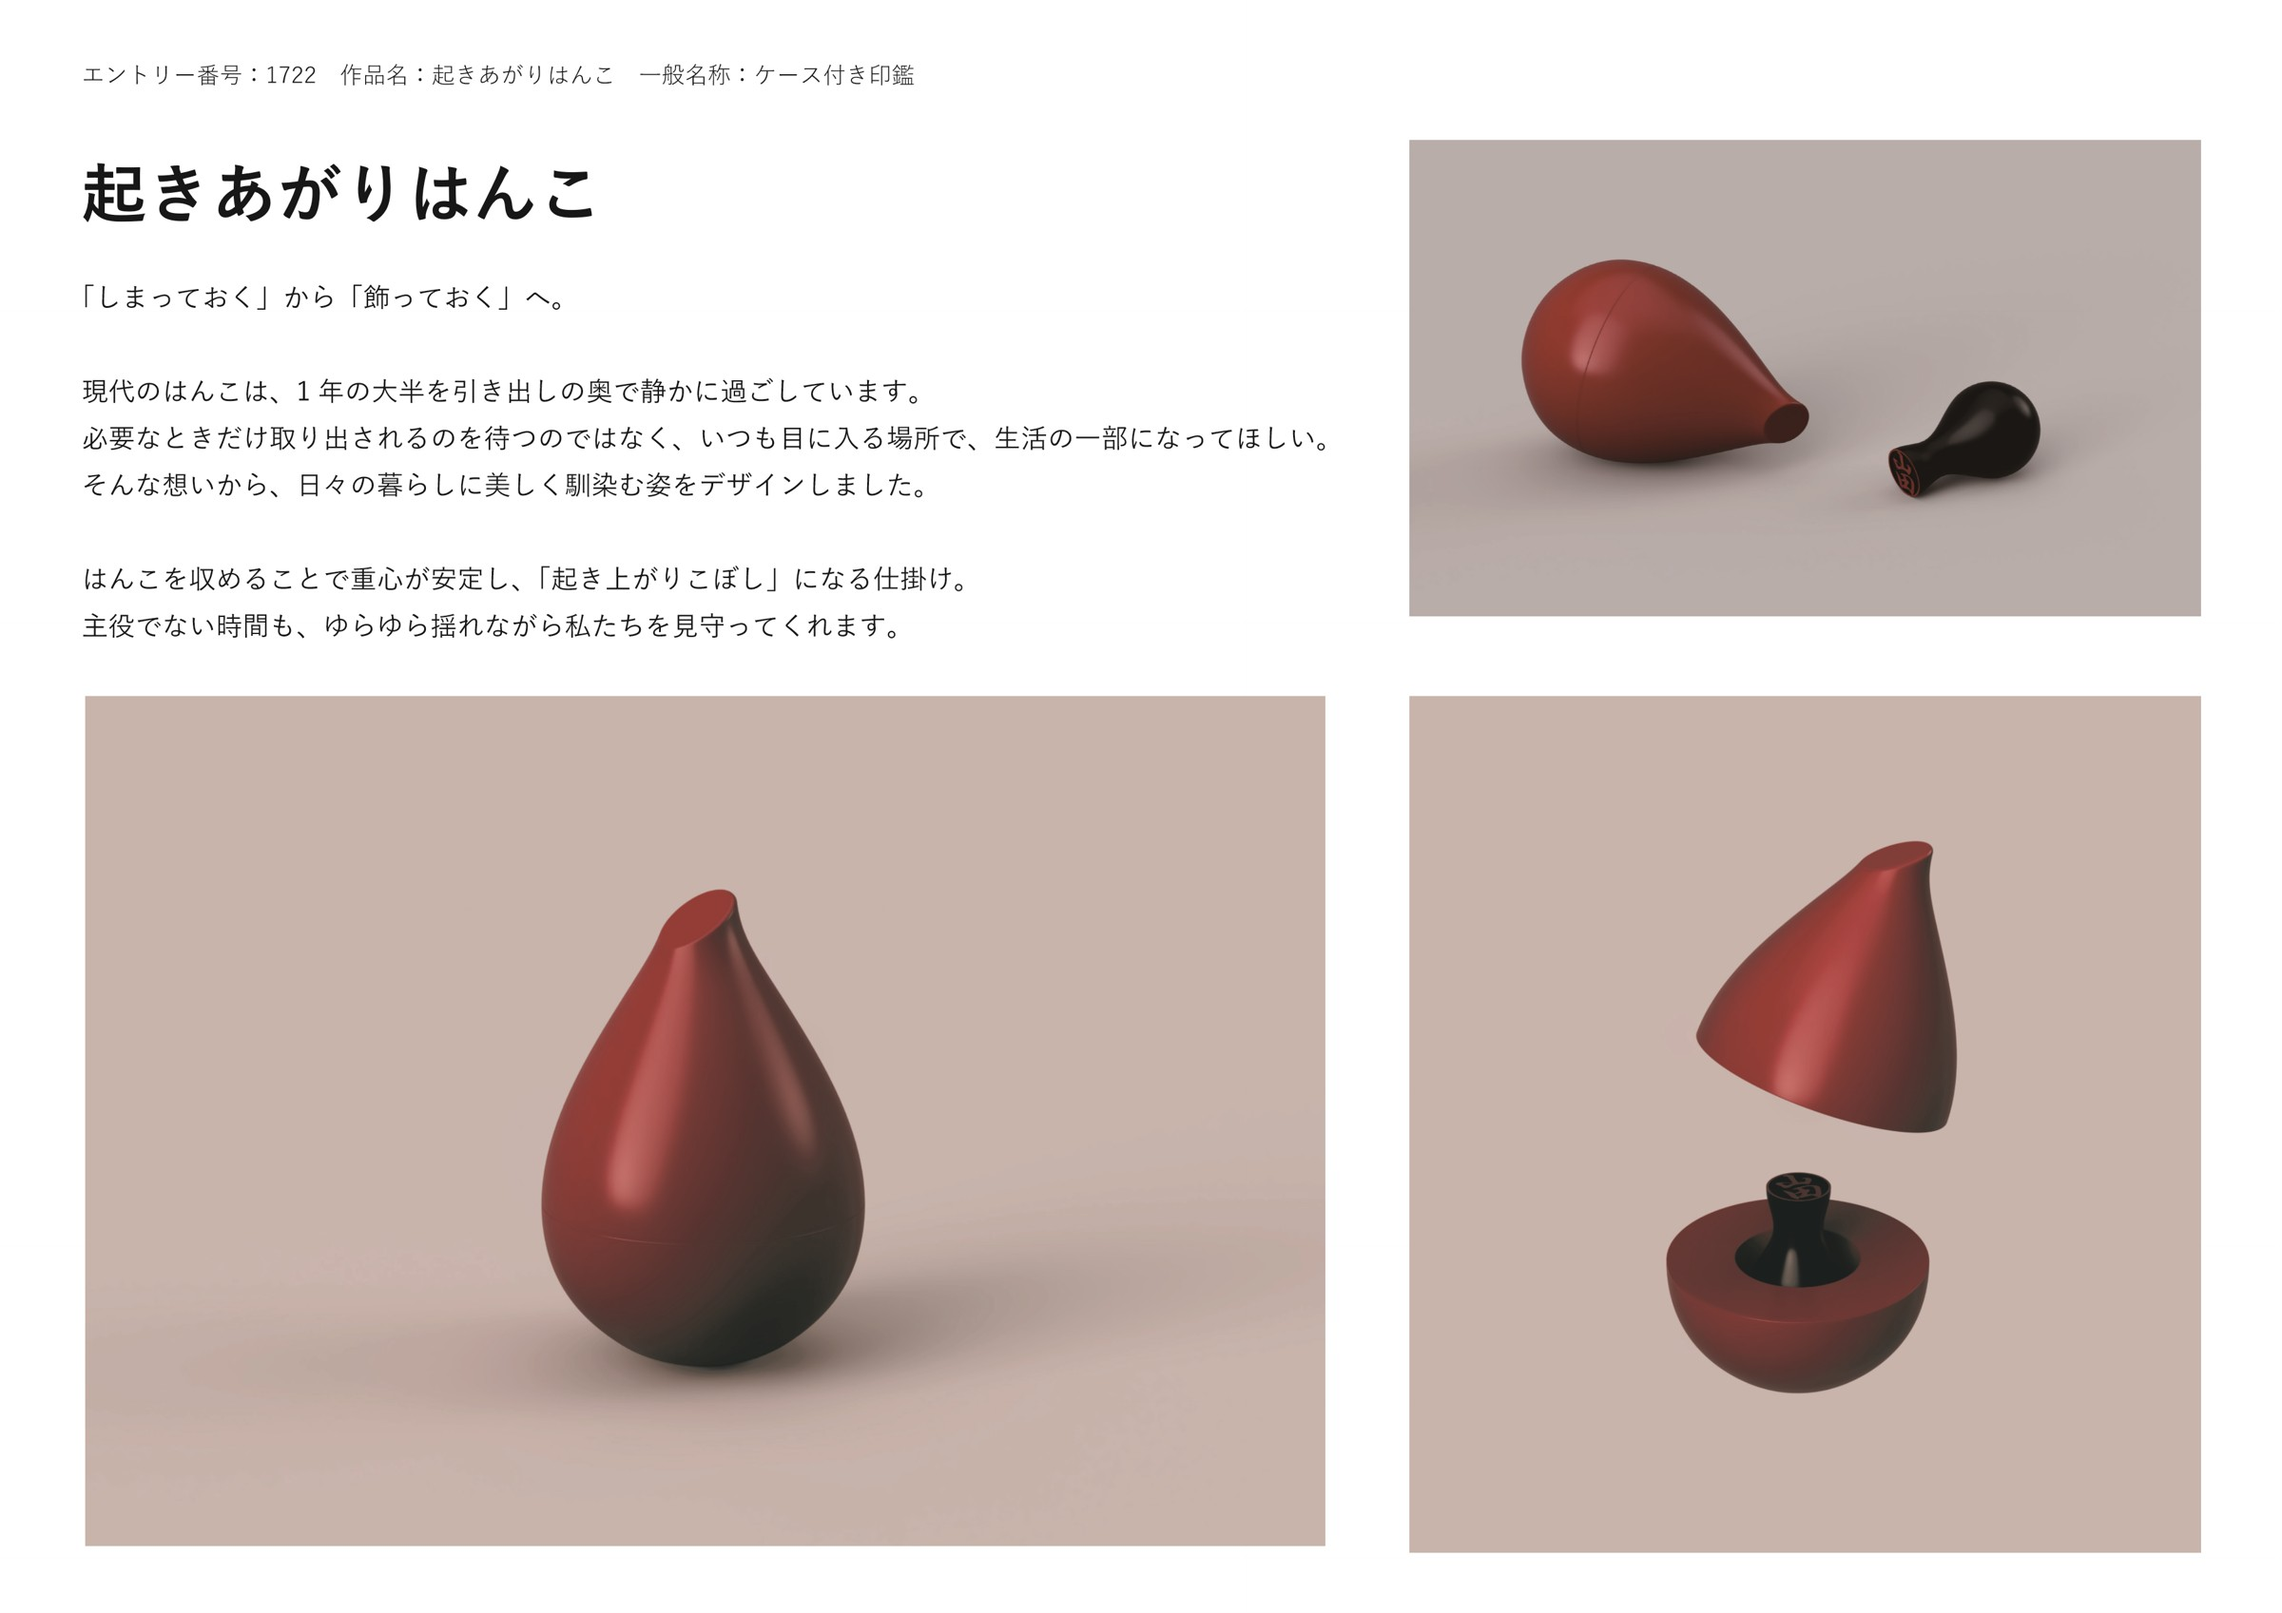
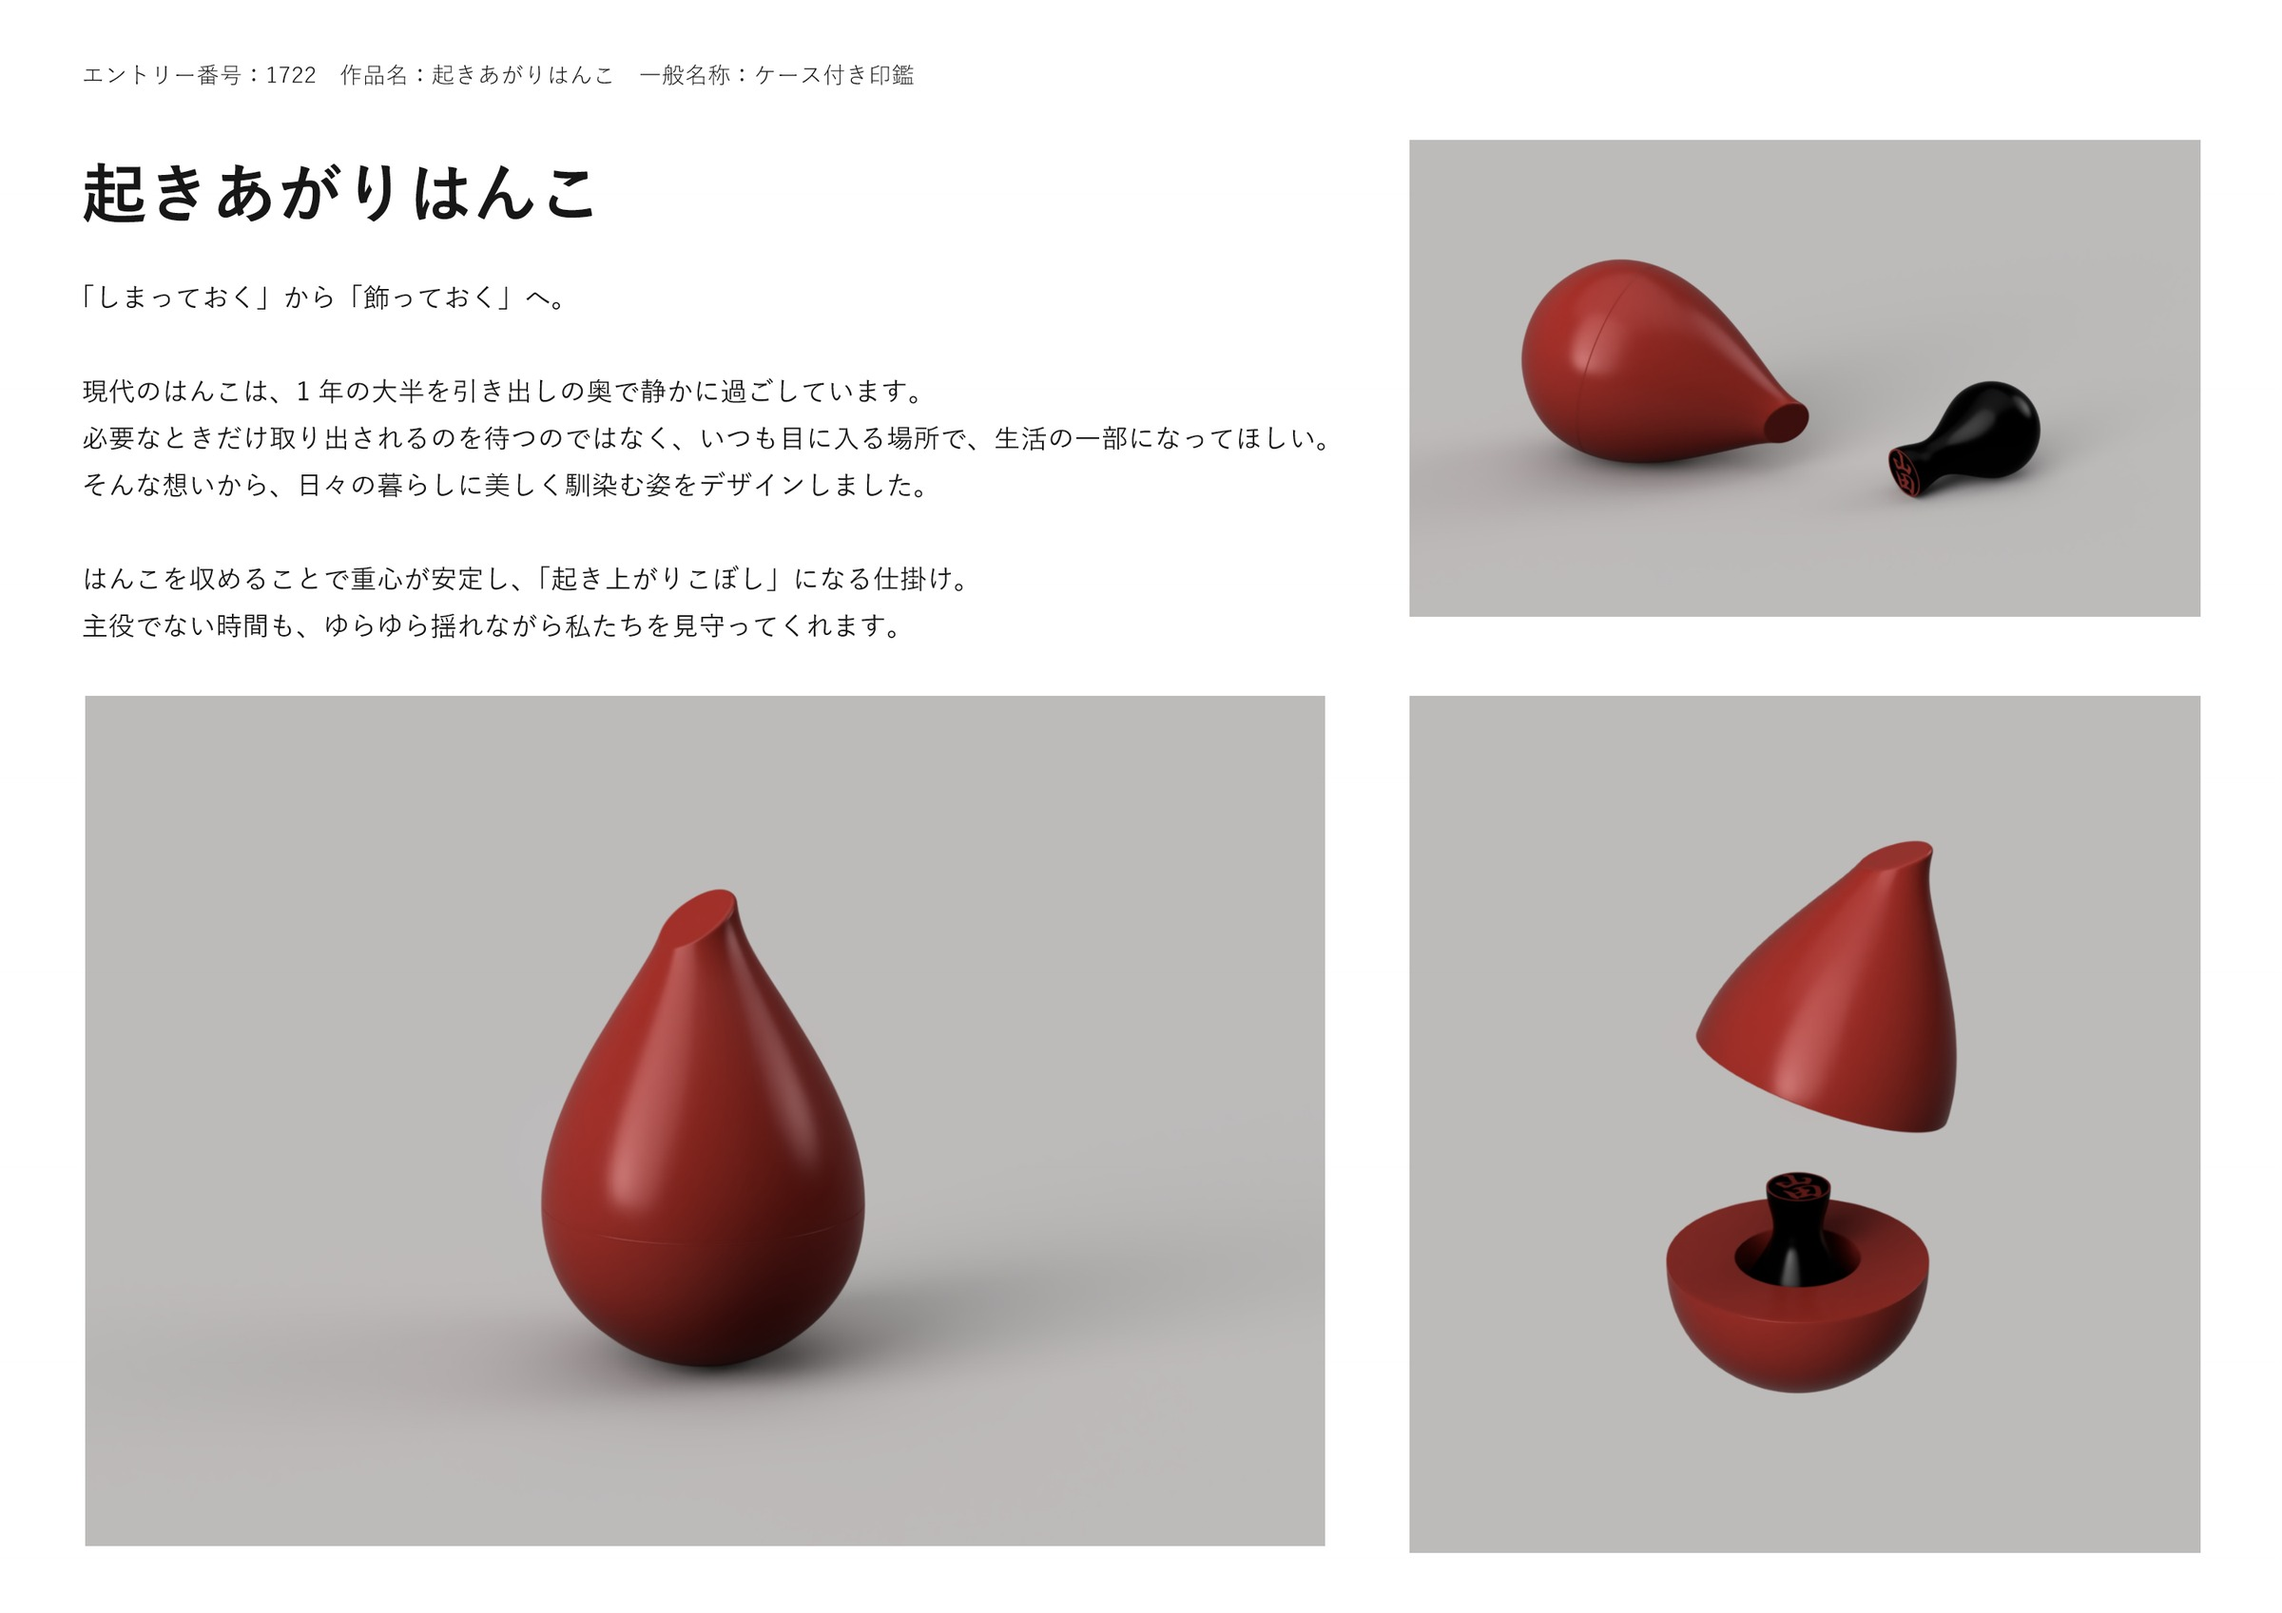
SNDC の2枚のプレゼンシートを、元の RGB 画像で描画し直して色を戻す
PDF の中の画像が CMYK で、そのまま描画すると背景のグレーが茶色に転んでいた。

diff --git a/src/content/works/onomatopettan/index.md b/src/content/works/onomatopettan/index.md
@@ -12,6 +12,7 @@ coverHint: "5つのスタンプの実物を並べた写真(横長)"
 # 写真の候補(既存のファイル。mf/others/sndc2025/): カバー=mockup_production/documents/提出物/ の模型写真1of3.jpg、01=end_result/rendering_images/mat-white_paper_vivid.png、02=end_result/rendering_images/texture_solid.PNG
 # 本人「オノマトペったんもSNDC2026も共同制作。アイデア出しは二人、モデリングやツールや私が作り、プレゼンシートは三橋が作った。適宜二人で意見交換をし意思決定をしていった。」(2026-10-25)。共同制作者の名前はページに出していない
 # 公開しないもの: 請求書・契約書、事務局の連絡先
+# presentation-sheet.jpg は PDF の中の CMYK 画像を、元の RGB のレンダリング(end_result/rendering_images/rendering.png)に差し替えてから描画した。CMYK のまま描画すると背景のグレーが茶色に転ぶ(本人「色味が全く変わってしまっている」2026-10-25)
 # 本文の事実の出典: end_result/onomatopettan_presentationsheet.pdf、end_result/stamp_*.py、mockup_production/
 ---
 ## コンセプト

diff --git a/src/content/works/okiagari-hanko/index.md b/src/content/works/okiagari-hanko/index.md
@@ -13,6 +13,7 @@ coverHint: "赤いケースを1つ置いた写真(横長)"
 # 本人「オノマトペったんもSNDC2026も共同制作。アイデア出しは二人、モデリングやツールや私が作り、プレゼンシートは三橋が作った。適宜二人で意見交換をし意思決定をしていった。」(2026-10-25)。共同制作者の名前はページに出していない
 # 応募の結果は書かない(本人「1次審査非通過は特に書かなくていいだろう」2026-10-25)
 # roly-poly-generator と stamp-generator を含む(本人、2026-10-23)。リポジトリは C:\Users\tm976\cs\archives\roly-poly-toy-generator と C:\Users\tm976\cs\archives\stamp-generator
+# presentation-sheet.jpg は Presensheet.pdf の中の CMYK 画像3枚を、元の RGB のレンダリング(main_001.png・open_001.png・using_001.png)に差し替えてから描画した。CMYK のまま描画すると背景のグレーが茶色に転ぶ(2026-10-25)
 # 本文の事実の出典: concept_text.txt の【採用】、Presensheet.pdf、両リポジトリの README.md と git log
 ---
 ## コンセプト
